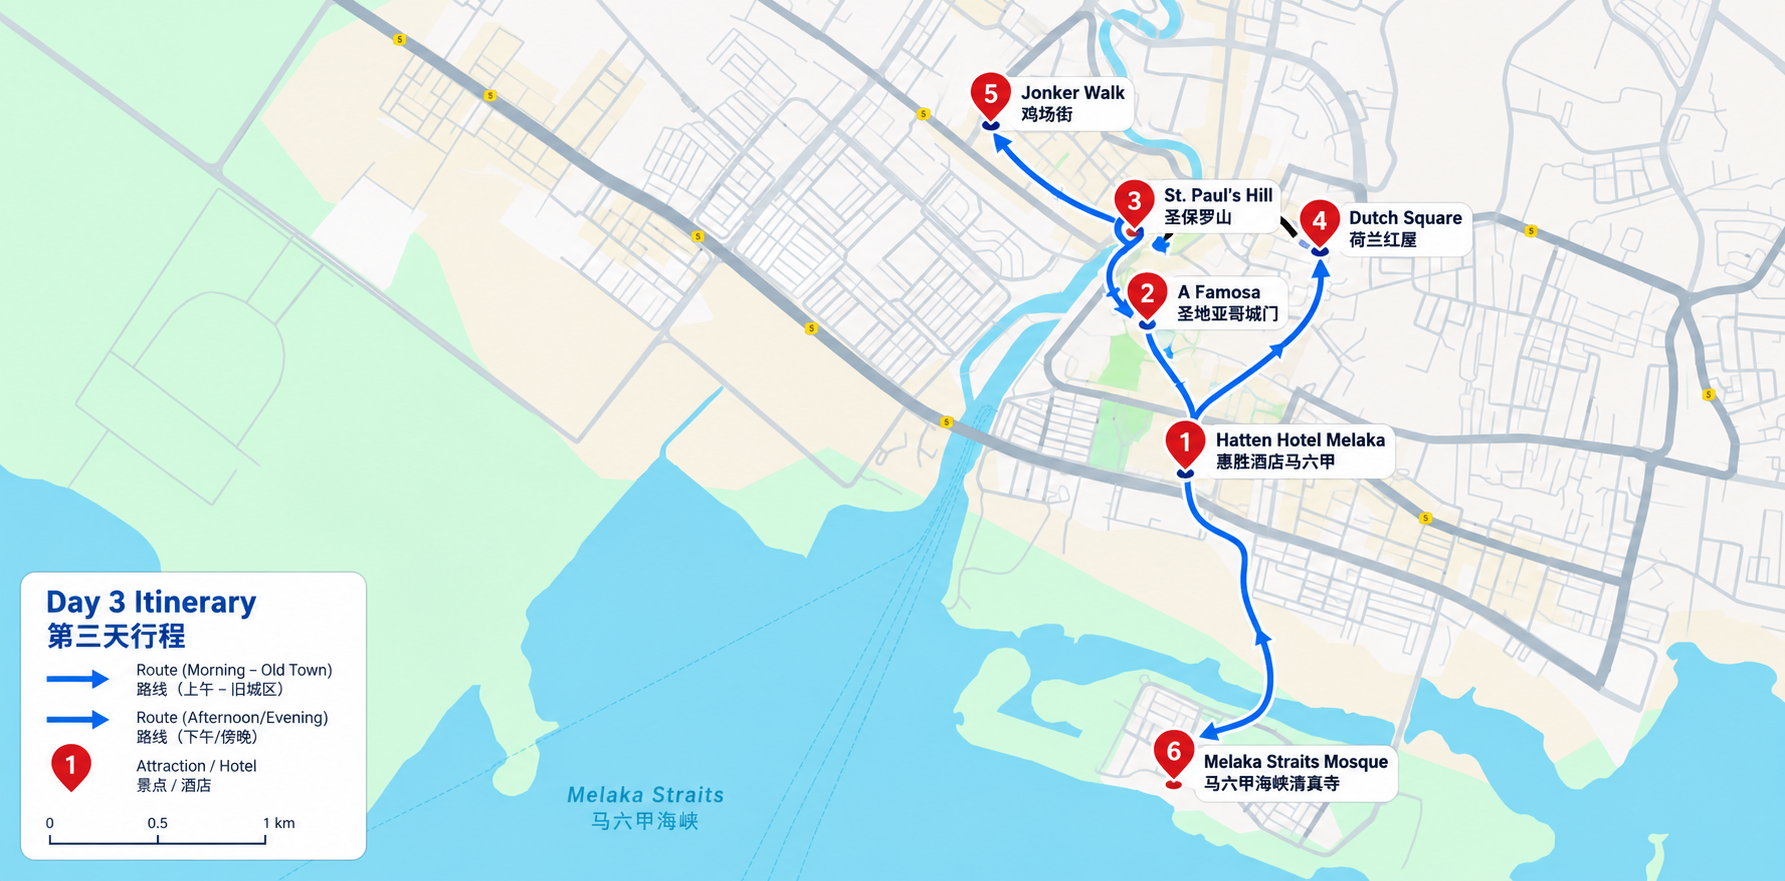
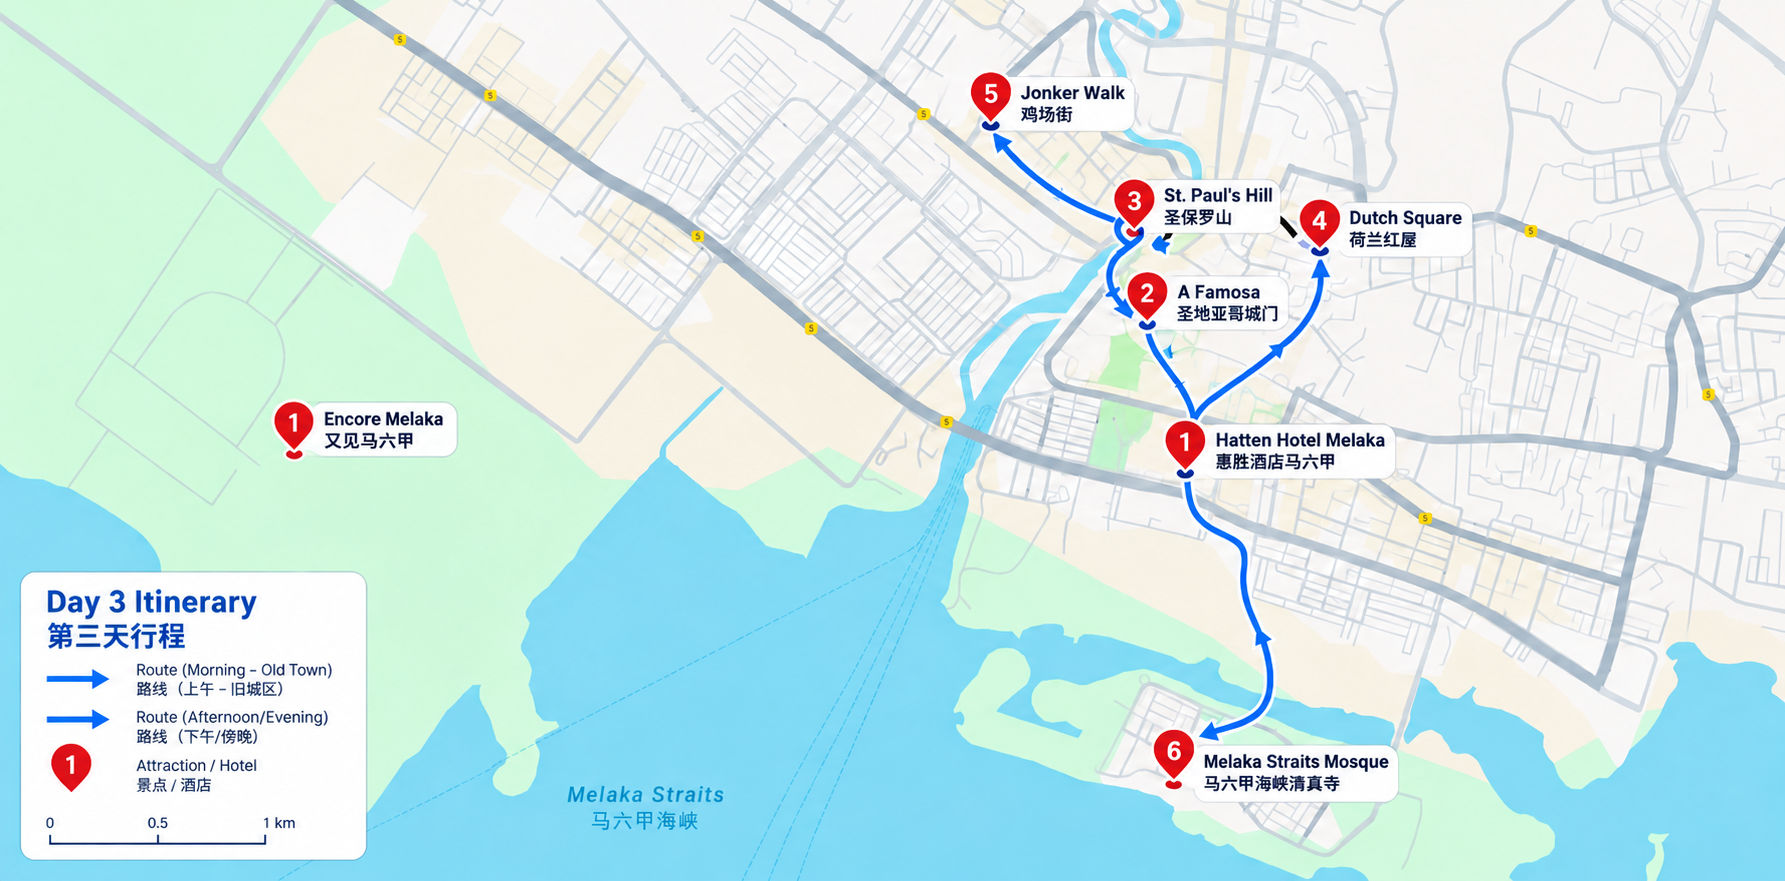
在 Day 3 地图添加又见马六甲

diff --git a/CHANGELOG.md b/CHANGELOG.md
@@ -178,3 +178,8 @@
 - 为 Day 3 新增简化静态路线图。
 - 仅保留 Hatten Hotel、A Famosa、St. Paul's Hill、Dutch Square、Jonker Walk 和 Melaka Straits Mosque。
 - 用路线线区分上午历史城区路线和下午/傍晚海峡清真寺路线。
+
+## 2026-09-20 - v2.8
+
+- 在 Day 3 路线图约 x=17.6%、y=53.6% 位置增加 Encore Melaka / 又见马六甲标记。
+- 为又见马六甲补充 Google Maps 地点链接。
